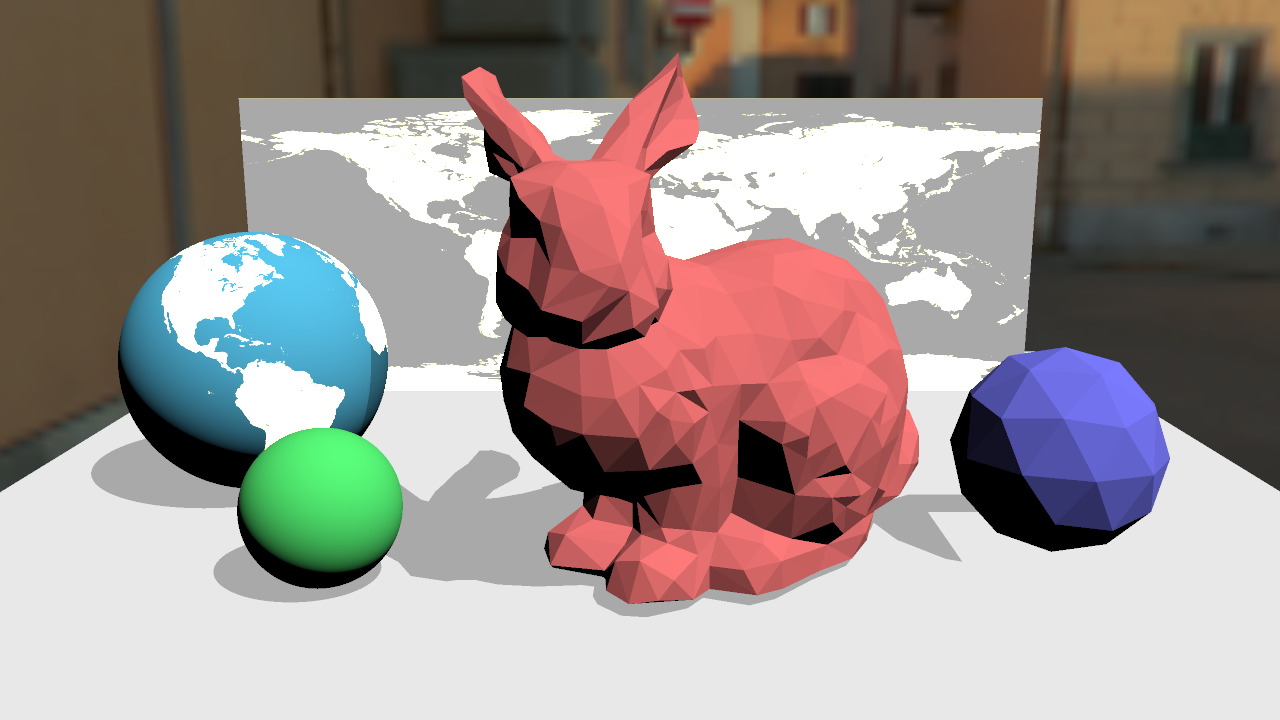
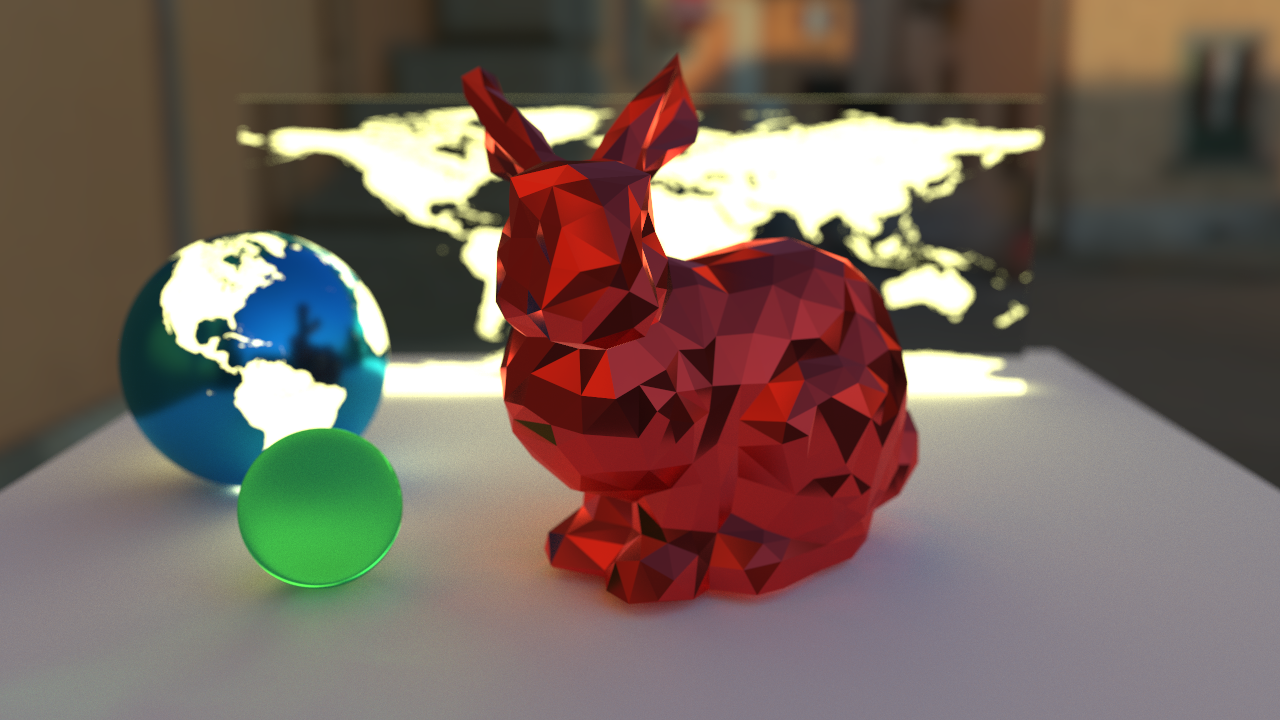
2nd test 450*4spp (total 867.463 sec. on massive)

diff --git a/src/main.rs b/src/main.rs
@@ -99,7 +99,7 @@ fn render() {
             }),
 
             // Icosphere
-            Box::new(BvhMesh::from_mesh(ObjLoader::load(
+            /*Box::new(BvhMesh::from_mesh(ObjLoader::load(
                 "models/blender/icosphere_meshlab.obj",
                 Matrix44::scale_linear(0.7) * Matrix44::translate(4.0, 1.0, 2.0),
                 Material {
@@ -108,7 +108,7 @@ fn render() {
                     emission: Texture::black(),
                     roughness: Texture::from_color(Color::from_one(0.1)),
                 },
-            ))),
+            ))),*/
 
             // 床
             Box::new(AxisAlignedBoundingBox {
@@ -133,7 +133,7 @@ fn render() {
     };
 
     let mut renderer = DebugRenderer{};
-    //let mut renderer = PathTracingRenderer::new();
+    let mut renderer = PathTracingRenderer::new();
     renderer.render(&scene, &camera, &mut imgbuf);
 
     let ref mut fout = File::create(&Path::new("test.png")).unwrap();

diff --git a/src/config.rs b/src/config.rs
@@ -9,7 +9,7 @@ pub const INF: f64 = 1e100;
 
 pub const DEBUG_BOUNCE_LIMIT: u32 = 3;
 pub const PATHTRACING_BOUNCE_LIMIT: u32 = 10;
-pub const PATHTRACING_SAMPLING: u32 = 100;//30;
+pub const PATHTRACING_SAMPLING: u32 = 450;//30;
 
 pub const SUPERSAMPLING: u32 = 2;
 
@@ -18,4 +18,4 @@ pub const GAMMA_FACTOR: f64 = 2.2;
 // レイトレ合宿5のレギュレーション用
 // https://sites.google.com/site/raytracingcamp5/
 pub const REPORT_INTERVAL_SEC: f64 = 30.0;// 30秒ごとに途中結果を出力
-pub const TIME_LIMIT_SEC: f64 = (4 * 60 + 33) as f64;// 4分33秒以内に自動で終了
+pub const TIME_LIMIT_SEC: f64 = (40 * 60 + 33) as f64;// 4分33秒以内に自動で終了
